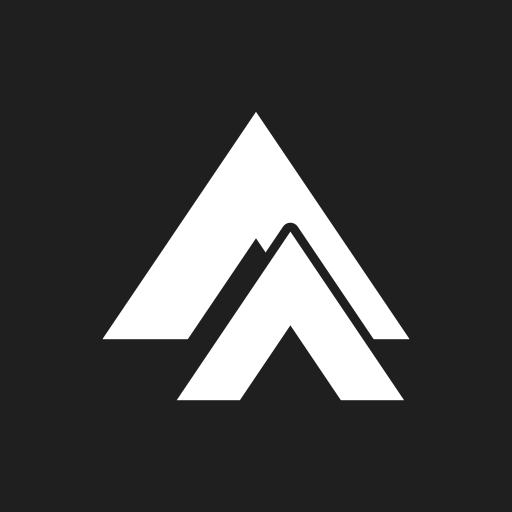
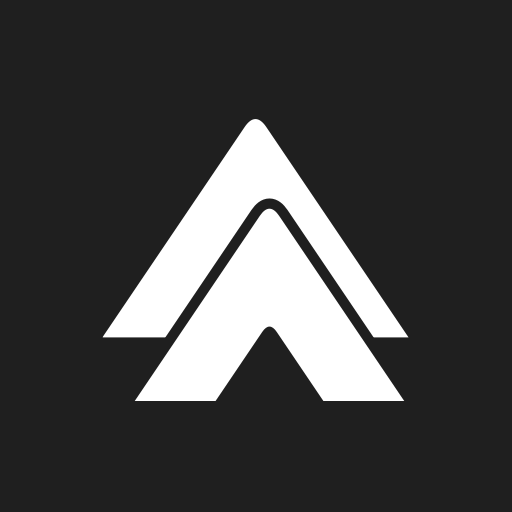
Rebuild the mark with rounded apexes and matched proportions
Traced against both the colour lockup and the white reverse. Three
things were wrong before: the apexes were sharp where the artwork
rounds them, the inner chevron was scaled down uniformly so its arms
came out thinner than the outer's, and it sat too far right.

Now both chevrons carry the same arm weight, the inner is slightly
narrower and dropped below the outer baseline, and both apexes are
rounded. Regenerated the icons, OG card, and brand/*.svg from it.

diff --git a/src/components/Logo.tsx b/src/components/Logo.tsx
@@ -15,8 +15,8 @@ import { useId } from "react";
 
 /** Mark geometry — mirrored in scripts/generate-assets.mjs and
  *  scripts/build-logo-svg.py. Change all three together. */
-const OUTER = "M138.5,0 L277,205 L200,205 L138.5,114 L77,205 L0,205 Z";
-const INNER = "M169.5,108 L272,260 L215,260 L169.5,192.5 L124,260 L67,260 Z";
+const OUTER = "M0,210 L131.92,14.91 Q142,0 152.08,14.91 L284,210 L206,210 L149.56,126.54 Q142,115.35 134.44,126.54 L78,210 Z";
+const INNER = "M30,269 L146.04,97.26 Q155,84 163.96,97.26 L280,269 L205,269 L161.72,204.94 Q155,195 148.28,204.94 L105,269 Z";
 
 export function AscentMark({
   variant = "onLight",
@@ -32,7 +32,7 @@ export function AscentMark({
   const maskId = useId();
   return (
     <svg
-      viewBox="0 0 277 260"
+      viewBox="0 0 285 269"
       className={className}
       role={title ? "img" : undefined}
       aria-hidden={title ? undefined : true}
@@ -43,9 +43,9 @@ export function AscentMark({
           into a single blob — the exact failure the brand guide calls out
           ("the inner chevron disappears"). Transparent, not painted, so it
           works on Ink, Graphite, or a photo alike. */}
-      <mask id={maskId} maskUnits="userSpaceOnUse" x="0" y="0" width="277" height="260">
-        <rect x="0" y="0" width="277" height="260" fill="#fff" />
-        <path d={INNER} fill="#000" stroke="#000" strokeWidth="16" strokeLinejoin="round" />
+      <mask id={maskId} maskUnits="userSpaceOnUse" x="0" y="0" width="285" height="269">
+        <rect x="0" y="0" width="285" height="269" fill="#fff" />
+        <path d={INNER} fill="#000" stroke="#000" strokeWidth="19" strokeLinejoin="round" />
       </mask>
       {/* outer chevron — orange, upper-left */}
       <path d={OUTER} fill={outer} mask={`url(#${maskId})`} />

diff --git a/scripts/build-logo-svg.py b/scripts/build-logo-svg.py
@@ -40,11 +40,11 @@ _vb = re.search(r"viewBox:\s*\{\s*w:\s*(\d+),\s*h:\s*(\d+)", _assets)
 MARK_W, MARK_H = int(_vb.group(1)), int(_vb.group(2))
 
 # --- lockup metrics, proportional to the mark -------------------------------
-GAP = 68           # mark -> wordmark
-WORD_CAP = 144     # ASCENT cap height
-WORD_BASE = 197    # ASCENT baseline
-TAG_CAP = 22       # tagline cap height
-TAG_BASE = 248     # tagline baseline
+GAP = 70           # mark -> wordmark
+WORD_CAP = 149     # ASCENT cap height
+WORD_BASE = 204    # ASCENT baseline
+TAG_CAP = 23       # tagline cap height
+TAG_BASE = 257     # tagline baseline
 
 
 def glyph_run(font_path, text):
@@ -89,7 +89,7 @@ def mark_svg(outer_fill, inner_fill):
         f'<mask id="gap" maskUnits="userSpaceOnUse" x="0" y="0" '
         f'width="{MARK_W}" height="{MARK_H}">'
         f'<rect x="0" y="0" width="{MARK_W}" height="{MARK_H}" fill="#fff"/>'
-        f'<path d="{MARK_INNER}" fill="#000" stroke="#000" stroke-width="16" '
+        f'<path d="{MARK_INNER}" fill="#000" stroke="#000" stroke-width="19" '
         f'stroke-linejoin="round"/></mask>'
         f'<path fill="{outer_fill}" d="{MARK_OUTER}" mask="url(#gap)"/>'
         f'<path fill="{inner_fill}" d="{MARK_INNER}"/>'
